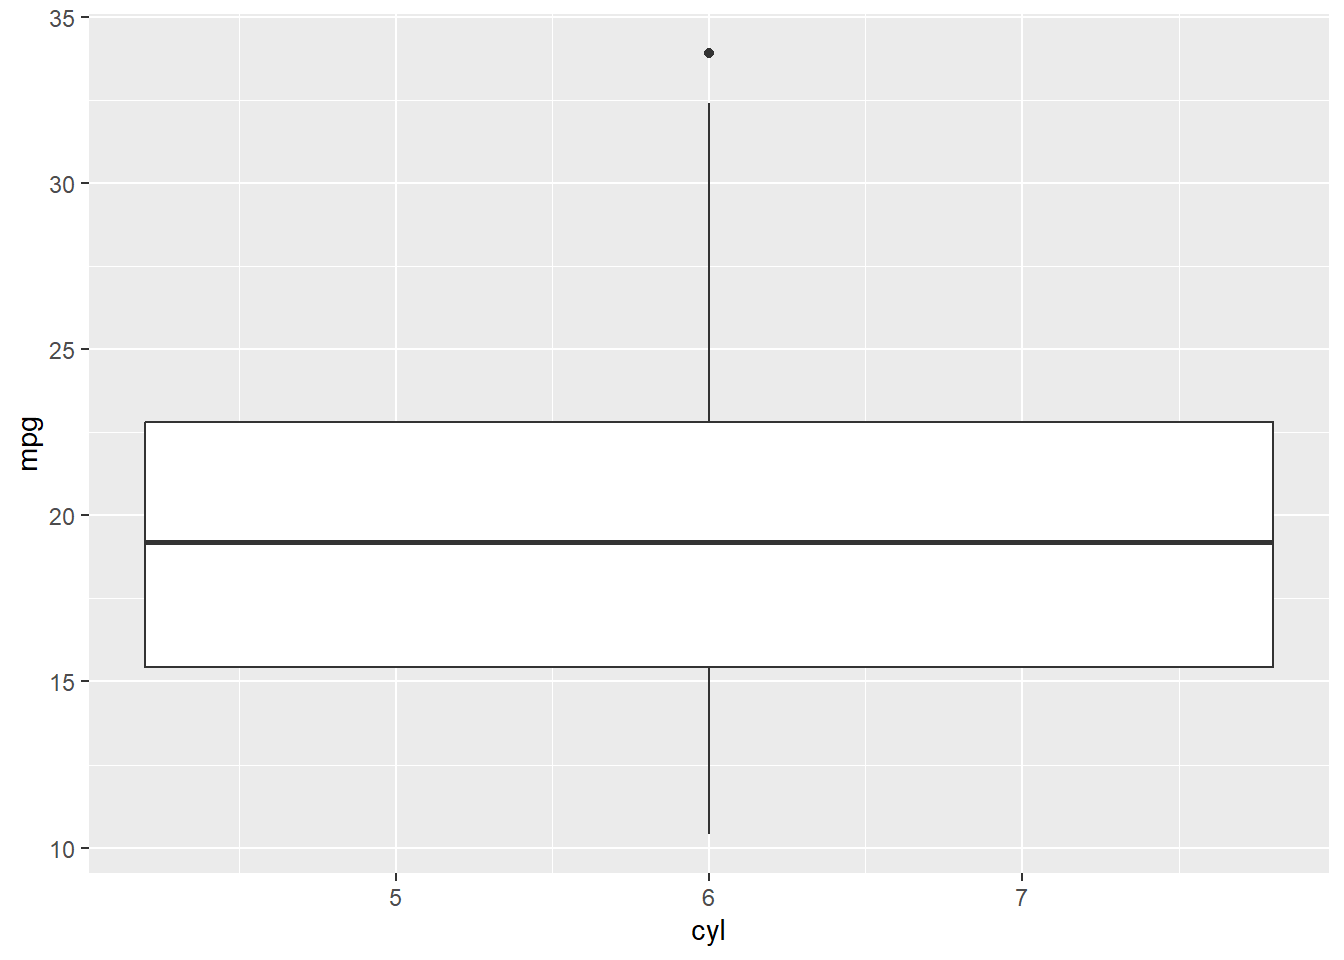
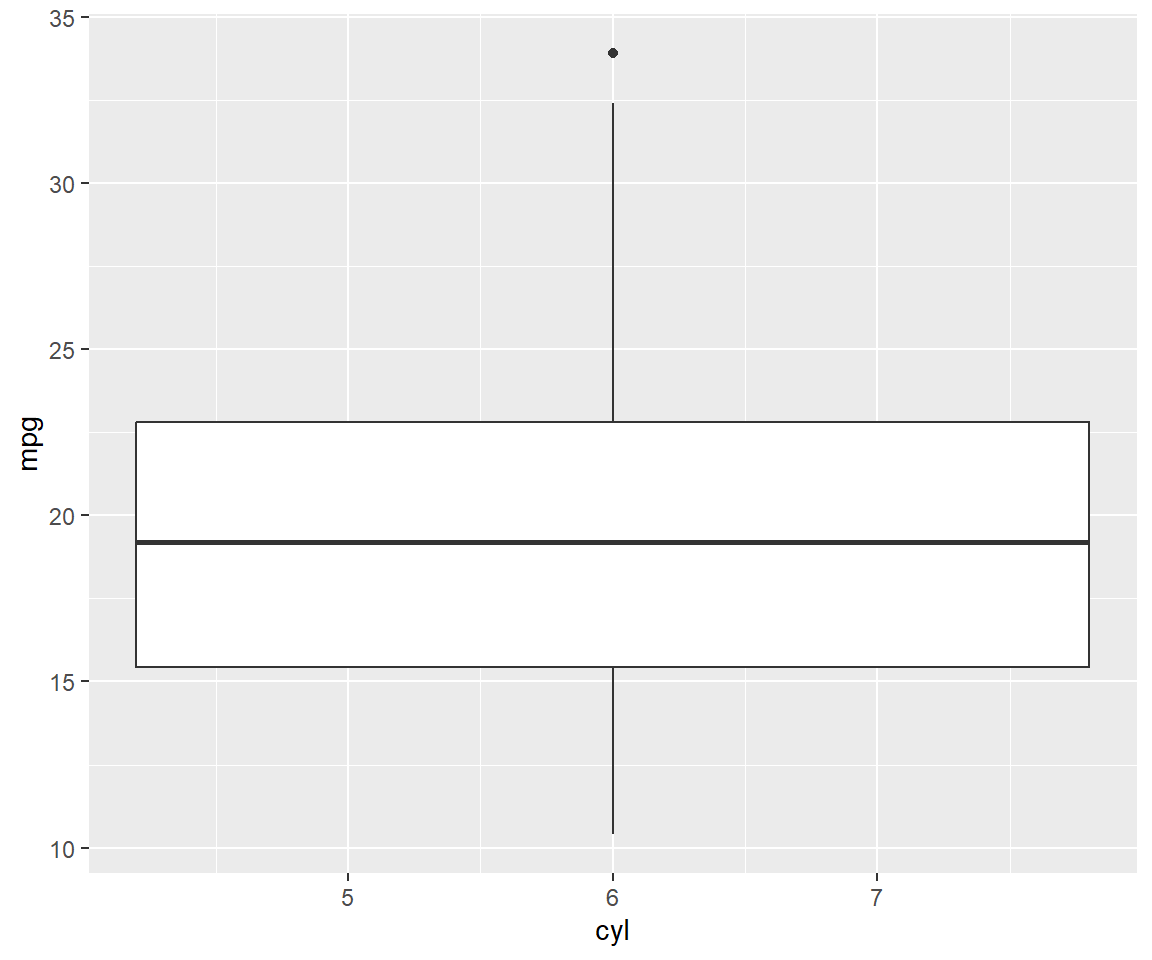
plot size

diff --git a/docs/posts/R-resources/index.html b/docs/posts/R-resources/index.html
@@ -725,7 +725,7 @@ F-statistic: 50.17 on 3 and 28 DF,  p-value: 2.184e-11</code></pre>
 ℹ did you forget `aes(group = ...)`?</code></pre>
 </div>
 <div class="cell-output-display">
-<p><img src="index_files/figure-html/unnamed-chunk-8-1.png" class="img-fluid" width="672"></p>
+<p><img src="index_files/figure-html/unnamed-chunk-8-1.png" class="img-fluid" width="576"></p>
 </div>
 </div>
 <p>Once we have recreated our issue in a simple and easy to follow example, we highlight all of the code that was used to create the example, <em>including the libraries</em>. Then, we run the <code><a href="https://reprex.tidyverse.org/reference/reprex.html">reprex()</a></code> function which will nicely format our code with any errors or warnings that we may have gotten and copy that to our clipboard.</p>
@@ -752,7 +752,7 @@ F-statistic: 50.17 on 3 and 28 DF,  p-value: 2.184e-11</code></pre>
 <span>  <span class="fu"><a href="https://ggplot2.tidyverse.org/reference/geom_boxplot.html">geom_boxplot</a></span><span class="op">(</span><span class="op">)</span></span></code><button title="Copy to Clipboard" class="code-copy-button"><i class="bi"></i></button></pre></div>
 <div class="cell-output-display">
 <div class="quarto-figure quarto-figure-center">
-<figure class="figure"><p><img src="index_files/figure-html/unnamed-chunk-10-1.png" class="img-fluid figure-img" width="672"></p>
+<figure class="figure"><p><img src="index_files/figure-html/unnamed-chunk-10-1.png" class="img-fluid figure-img" width="576"></p>
 <p></p><figcaption class="figure-caption">Correct way to create boxplot</figcaption><p></p>
 </figure>
 </div>
@@ -834,7 +834,7 @@ F-statistic: 50.17 on 3 and 28 DF,  p-value: 2.184e-11</code></pre>
 <span>  <span class="fu"><a href="https://ggplot2.tidyverse.org/reference/geom_point.html">geom_point</a></span><span class="op">(</span><span class="op">)</span> <span class="op">+</span></span>
 <span>  <span class="fu"><a href="https://ggplot2.tidyverse.org/reference/ggtheme.html">theme_minimal</a></span><span class="op">(</span><span class="op">)</span></span></code><button title="Copy to Clipboard" class="code-copy-button"><i class="bi"></i></button></pre></div>
 <div class="cell-output-display">
-<p><img src="index_files/figure-html/unnamed-chunk-15-1.png" class="img-fluid" width="672"></p>
+<p><img src="index_files/figure-html/unnamed-chunk-15-1.png" class="img-fluid" width="576"></p>
 </div>
 </div>
 <p>Using showtext, we can import fonts from google fonts with a simple function and then use some ggplot2 options to include theme in our plot.</p>
@@ -865,12 +865,15 @@ F-statistic: 50.17 on 3 and 28 DF,  p-value: 2.184e-11</code></pre>
 <span>    axis.title.y <span class="op">=</span> <span class="fu"><a href="https://ggplot2.tidyverse.org/reference/element.html">element_text</a></span><span class="op">(</span>family <span class="op">=</span> <span class="st">"bell"</span>, size <span class="op">=</span> <span class="fl">20</span><span class="op">)</span>, </span>
 <span>    plot.title <span class="op">=</span> <span class="fu"><a href="https://ggplot2.tidyverse.org/reference/element.html">element_text</a></span><span class="op">(</span>family <span class="op">=</span> <span class="st">"grace"</span>, size <span class="op">=</span> <span class="fl">20</span><span class="op">)</span>, </span>
 <span>    legend.text <span class="op">=</span> <span class="fu"><a href="https://ggplot2.tidyverse.org/reference/element.html">element_text</a></span><span class="op">(</span>family <span class="op">=</span> <span class="st">"rock"</span>, size <span class="op">=</span> <span class="fl">20</span><span class="op">)</span>, </span>
-<span>    legend.title <span class="op">=</span> <span class="fu"><a href="https://ggplot2.tidyverse.org/reference/element.html">element_text</a></span><span class="op">(</span><span class="st">"dance"</span>, size <span class="op">=</span> <span class="fl">20</span><span class="op">)</span></span>
+<span>    legend.title <span class="op">=</span> <span class="fu"><a href="https://ggplot2.tidyverse.org/reference/element.html">element_text</a></span><span class="op">(</span><span class="st">"dance"</span>, size <span class="op">=</span> <span class="fl">20</span><span class="op">)</span>,</span>
+<span>    axis.text <span class="op">=</span> <span class="fu"><a href="https://ggplot2.tidyverse.org/reference/element.html">element_text</a></span><span class="op">(</span>size <span class="op">=</span> <span class="fl">20</span><span class="op">)</span></span>
 <span>    <span class="op">)</span></span></code><button title="Copy to Clipboard" class="code-copy-button"><i class="bi"></i></button></pre></div>
 <div class="cell-output-display">
-<p><img src="index_files/figure-html/unnamed-chunk-16-1.png" class="img-fluid" width="672"></p>
+<p><img src="index_files/figure-html/unnamed-chunk-16-1.png" class="img-fluid" width="576"></p>
 </div>
-<div class="sourceCode" id="cb39"><pre class="downlit sourceCode r code-with-copy"><code class="sourceCode R"><span><span class="fu"><a href="https://rdrr.io/pkg/showtext/man/showtext_end.html">showtext_end</a></span><span class="op">(</span><span class="op">)</span></span></code><button title="Copy to Clipboard" class="code-copy-button"><i class="bi"></i></button></pre></div>
+<div class="sourceCode" id="cb39"><pre class="downlit sourceCode r code-with-copy"><code class="sourceCode R"><span><span class="co">#This function makes it so that any future plots are reverted back to the </span></span>
+<span><span class="co">#original settings</span></span>
+<span><span class="fu"><a href="https://rdrr.io/pkg/showtext/man/showtext_end.html">showtext_end</a></span><span class="op">(</span><span class="op">)</span></span></code><button title="Copy to Clipboard" class="code-copy-button"><i class="bi"></i></button></pre></div>
 </div>
 <p>We used four different fonts in one ggplot! I’ll admit it’s not the nicest looking plot I’ve ever made, but the point stands that you can customize ggplots to your hearts content using packages like showtext.</p>
 </section><section id="scales" class="level3" data-number="3.3"><h3 data-number="3.3" class="anchored" data-anchor-id="scales">
@@ -884,9 +887,13 @@ F-statistic: 50.17 on 3 and 28 DF,  p-value: 2.184e-11</code></pre>
 <span>  <span class="fu"><a href="https://ggplot2.tidyverse.org/reference/geom_point.html">geom_point</a></span><span class="op">(</span><span class="op">)</span> <span class="op">+</span></span>
 <span>  <span class="fu"><a href="https://ggplot2.tidyverse.org/reference/scale_continuous.html">scale_x_continuous</a></span><span class="op">(</span>labels <span class="op">=</span> <span class="fu">scales</span><span class="fu">::</span><span class="fu"><a href="https://scales.r-lib.org/reference/label_dollar.html">label_dollar</a></span><span class="op">(</span><span class="op">)</span><span class="op">)</span> <span class="op">+</span></span>
 <span>  <span class="fu"><a href="https://ggplot2.tidyverse.org/reference/scale_continuous.html">scale_y_continuous</a></span><span class="op">(</span>labels <span class="op">=</span> <span class="fu">scales</span><span class="fu">::</span><span class="fu"><a href="https://scales.r-lib.org/reference/label_percent.html">label_percent</a></span><span class="op">(</span><span class="op">)</span><span class="op">)</span> <span class="op">+</span></span>
-<span>  <span class="fu"><a href="https://ggplot2.tidyverse.org/reference/ggtheme.html">theme_minimal</a></span><span class="op">(</span><span class="op">)</span></span></code><button title="Copy to Clipboard" class="code-copy-button"><i class="bi"></i></button></pre></div>
+<span>  <span class="fu"><a href="https://ggplot2.tidyverse.org/reference/ggtheme.html">theme_minimal</a></span><span class="op">(</span><span class="op">)</span> <span class="op">+</span></span>
+<span>  <span class="fu"><a href="https://ggplot2.tidyverse.org/reference/theme.html">theme</a></span><span class="op">(</span>axis.text <span class="op">=</span> <span class="fu"><a href="https://ggplot2.tidyverse.org/reference/element.html">element_text</a></span><span class="op">(</span>size <span class="op">=</span> <span class="fl">20</span><span class="op">)</span>,</span>
+<span>        axis.title <span class="op">=</span> <span class="fu"><a href="https://ggplot2.tidyverse.org/reference/element.html">element_text</a></span><span class="op">(</span>size <span class="op">=</span> <span class="st">"20"</span><span class="op">)</span>,</span>
+<span>        legend.title <span class="op">=</span> <span class="fu"><a href="https://ggplot2.tidyverse.org/reference/element.html">element_text</a></span><span class="op">(</span>size <span class="op">=</span> <span class="fl">20</span><span class="op">)</span>,</span>
+<span>        legend.text <span class="op">=</span> <span class="fu"><a href="https://ggplot2.tidyverse.org/reference/element.html">element_text</a></span><span class="op">(</span>size <span class="op">=</span> <span class="fl">20</span><span class="op">)</span><span class="op">)</span> </span></code><button title="Copy to Clipboard" class="code-copy-button"><i class="bi"></i></button></pre></div>
 <div class="cell-output-display">
-<p><img src="index_files/figure-html/unnamed-chunk-17-1.png" class="img-fluid" width="672"></p>
+<p><img src="index_files/figure-html/unnamed-chunk-17-1.png" class="img-fluid" width="576"></p>
 </div>
 </div>
 </section></section><section id="databases" class="level2" data-number="4"><h2 data-number="4" class="anchored" data-anchor-id="databases">

diff --git a/docs/index.html b/docs/index.html
@@ -208,7 +208,7 @@ Sam Weiner
 </a>
 </div>
 </div>
-<div class="quarto-post image-right" data-index="1" data-categories="resources,rstats" data-listing-date-sort="1673154000000" data-listing-file-modified-sort="1673376136279" data-listing-reading-time-sort="19.38">
+<div class="quarto-post image-right" data-index="1" data-categories="resources,rstats" data-listing-date-sort="1673154000000" data-listing-file-modified-sort="1673377673692" data-listing-reading-time-sort="19.58">
 <div class="thumbnail">
 <p><a href="./posts/R-resources/index.html"> <img src="https://i.imgur.com/lrYe9oR.png" class="thumnail-image"> </a></p>
 </div>
